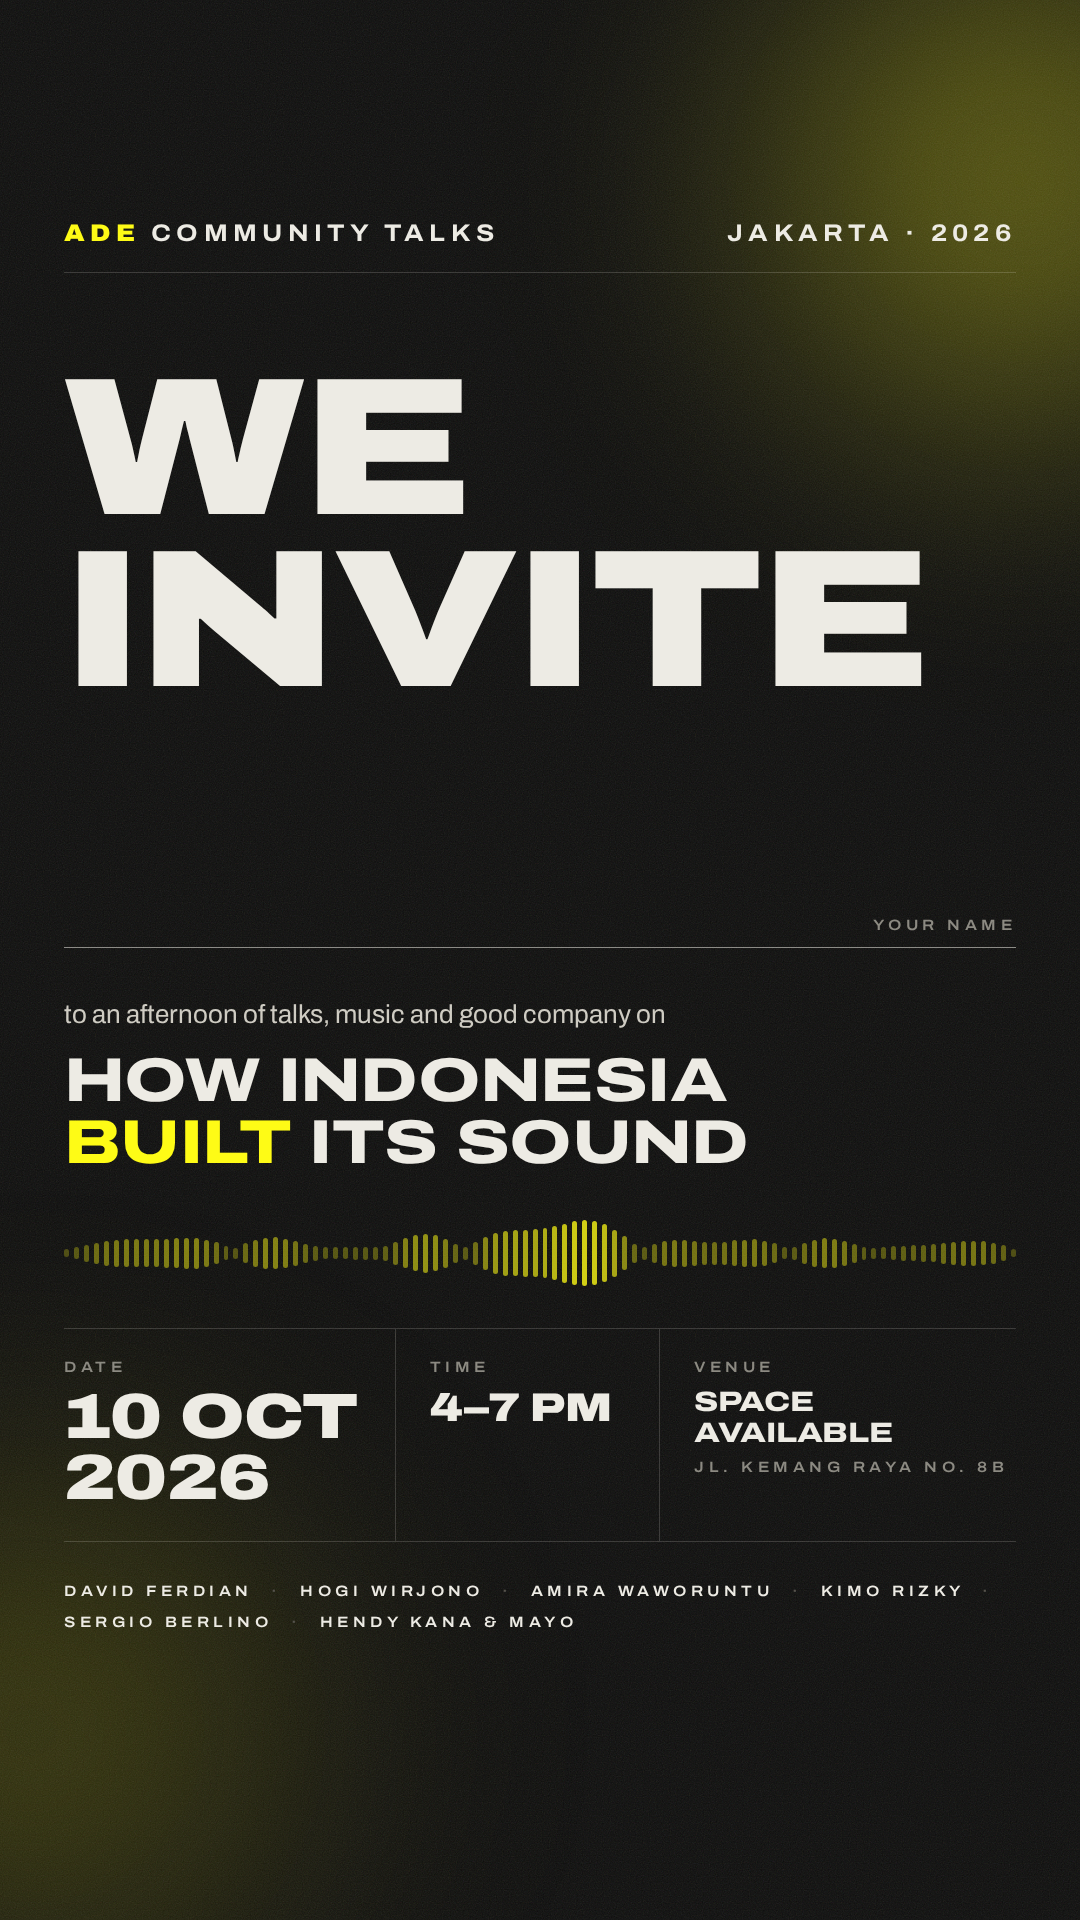
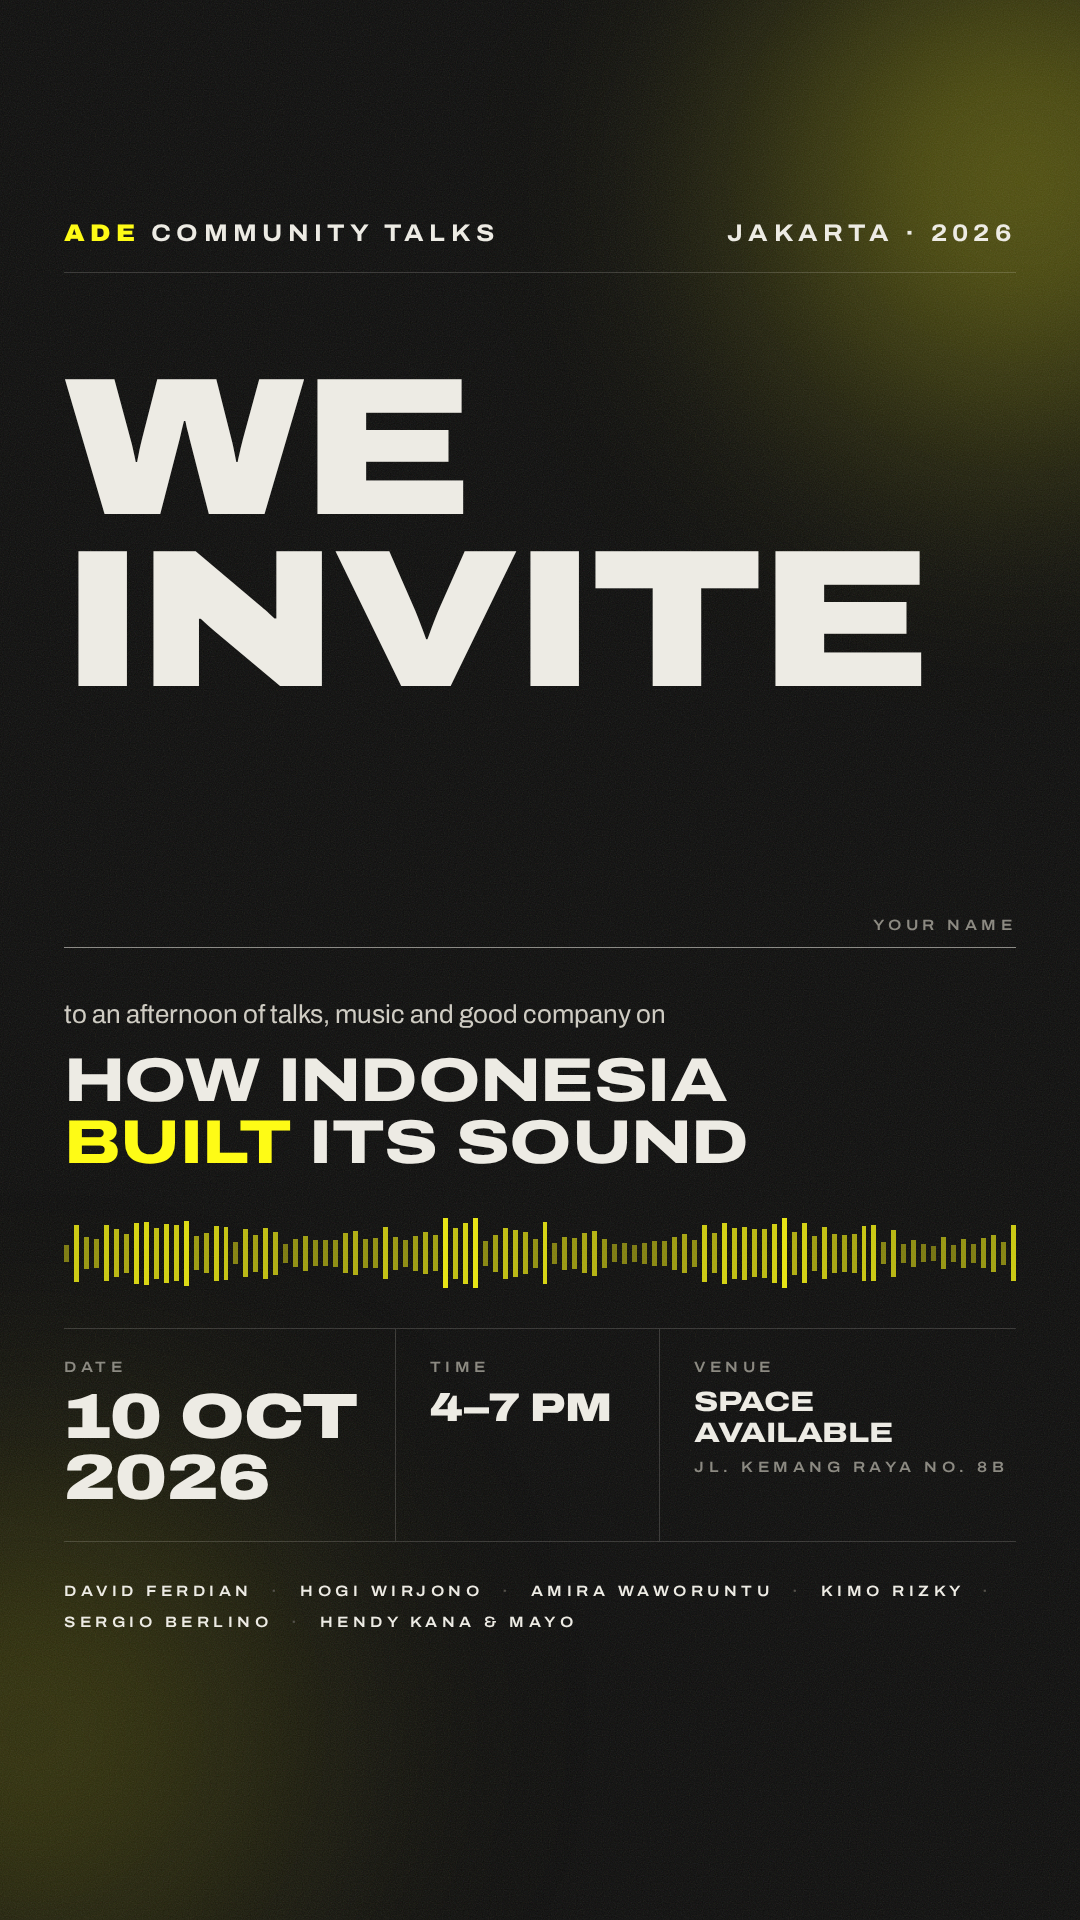
ADE flyer: square, more irregular sound wave
Claude-Session: https://claude.ai/code/session_01Sc5gF2HRFqjLpMQDrx7aqZ

diff --git a/events/ade-community-talks-2026/wave.js b/events/ade-community-talks-2026/wave.js
@@ -1,9 +1,13 @@
+// Square-ended bars with irregular, audio-like heights (seeded, so every render is identical).
 document.querySelectorAll('.wave').forEach(w => {
+  let seed = 7;
+  const rand = () => (seed = (seed * 16807) % 2147483647) / 2147483647;
   for (let i = 0; i < 96; i++) {
     const x = i / 95;
-    const h = Math.max(.08, Math.abs(Math.sin(x*21)*.55 + Math.sin(x*7.3+1)*.35 + Math.sin(x*53)*.18)) * Math.sin(Math.PI*x)**.6;
+    const body = .35 + .65 * Math.abs(Math.sin(x * 9.5 + .6));
+    const h = Math.min(1, Math.max(.06, body * (.25 + rand() * .85)));
     const b = document.createElement('i');
-    b.style.height = (8 + h*62) + 'px'; b.style.opacity = (.25 + h*.6).toFixed(2);
+    b.style.height = (6 + h * 64) + 'px'; b.style.opacity = (.35 + h * .55).toFixed(2);
     w.appendChild(b);
   }
 });

diff --git a/events/ade-community-talks-2026/modern.css b/events/ade-community-talks-2026/modern.css
@@ -25,7 +25,7 @@ body { position: relative; font-family: 'Archivo', sans-serif; }
 .lead { font-size: 26px; line-height: 1.4; color: var(--soft); }
 
 .wave { height: 70px; display: flex; align-items: center; gap: 5px; }
-.wave i { flex: 1; background: var(--y); border-radius: 3px; }
+.wave i { flex: 1; background: var(--y); border-radius: 0; }
 
 .facts { display: grid; grid-template-columns: 1.25fr 1fr 1.35fr; border-top: 1px solid var(--line); border-bottom: 1px solid var(--line); }
 .facts > div { padding: 30px 0 32px; }
